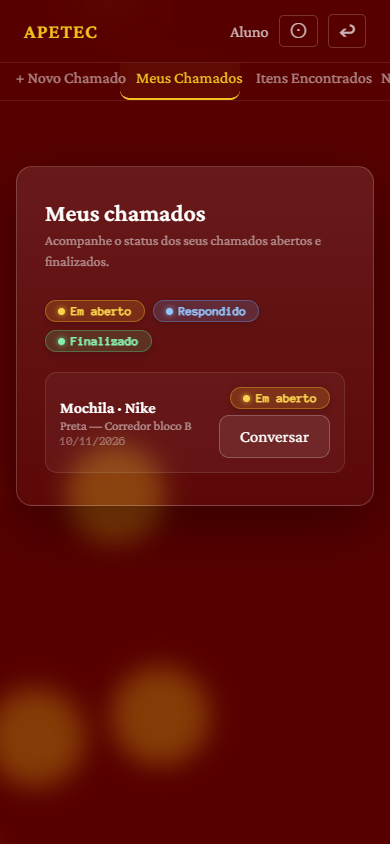
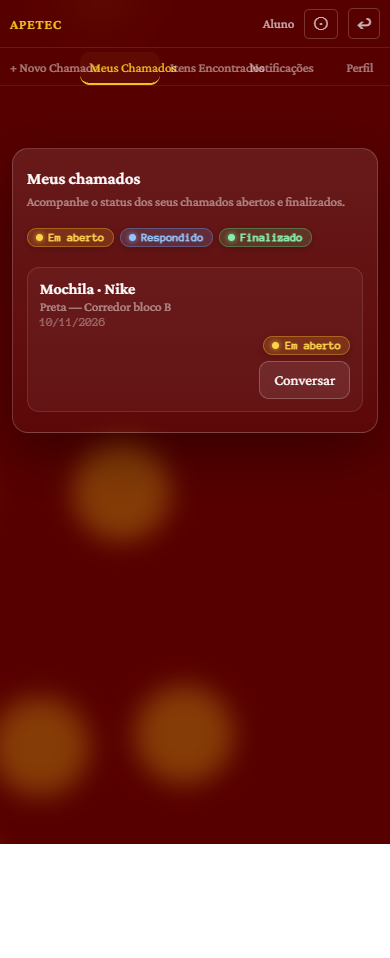
style: make layout responsive for mobile

diff --git a/frontend/style/style.css b/frontend/style/style.css
@@ -1646,3 +1646,48 @@ input[type="file"]::file-selector-button:hover {
   margin-top: 12px;
   flex-wrap: wrap;
 }
+
+/* ===== RESPONSIVIDADE MOBILE ===== */
+@media (max-width: 768px) {
+  body { font-size: 16px; }
+  .login-container, .register-container, .card, .dash-card { padding: 24px 18px; width: 94vw; max-width: 94vw; }
+  .dash-header { padding: 10px 12px; flex-wrap: wrap; gap: 6px; }
+  .dash-logo { font-size: 16px; }
+  .dash-nome { font-size: 13px; }
+  .btn-perfil, .btn-logout { font-size: 16px; padding: 4px 8px; }
+  .dash-tabs { top: 52px; }
+  .tab-btn { min-width: 90px; padding: 10px 12px; font-size: 14px; }
+  .dash-main { margin-top: 100px; padding: 16px 12px 32px; }
+  .dash-section { max-width: 100%; }
+  .dash-card { padding: 20px 16px; }
+  .card-titulo { font-size: 18px; }
+  .card-sub { font-size: 13px; margin-bottom: 16px; }
+  .dash-card .form-grupo input,
+  .dash-card .form-grupo select,
+  .busca-input { font-size: 16px; padding: 10px 12px; }
+  .btn-primario, .btn-secundario, .Entrar, .Registrar, .Cadastrar, .Voltar { font-size: 15px; padding: 10px 14px; }
+  .dash-card .btns { grid-template-columns: 1fr; gap: 8px; }
+  .busca-row { flex-direction: column; gap: 8px; }
+  .chamado-item { flex-direction: column; align-items: stretch; gap: 8px; padding: 12px; }
+  .chamado-info { width: 100%; }
+  .perfil-campo { flex-direction: column; align-items: flex-start; gap: 2px; }
+  .perfil-valor { text-align: left; font-size: 15px; }
+  .modal-card { max-width: 95vw; padding: 16px; max-height: 90vh; }
+  .modal-chat-lista { min-height: 160px; }
+  .modal-actions { flex-direction: column; gap: 6px; }
+  .modal-actions button { width: 100%; }
+  .legenda-status { gap: 6px; }
+  .badge { font-size: 11px; padding: 3px 8px; }
+  input, select, textarea { font-size: 16px; }
+  .rodape { font-size: 12px; padding: 12px; }
+  img { max-width: 100%; height: auto; }
+}
+
+@media (max-width: 480px) {
+  .login-container, .register-container, .card, .dash-card { padding: 20px 14px; }
+  .typewriter-wrap { font-size: 22px; }
+  .dash-logo { font-size: 14px; }
+  .tab-btn { min-width: 80px; padding: 8px 10px; font-size: 13px; }
+  .card-titulo { font-size: 17px; }
+  .dash-header { padding: 8px 10px; }
+}
